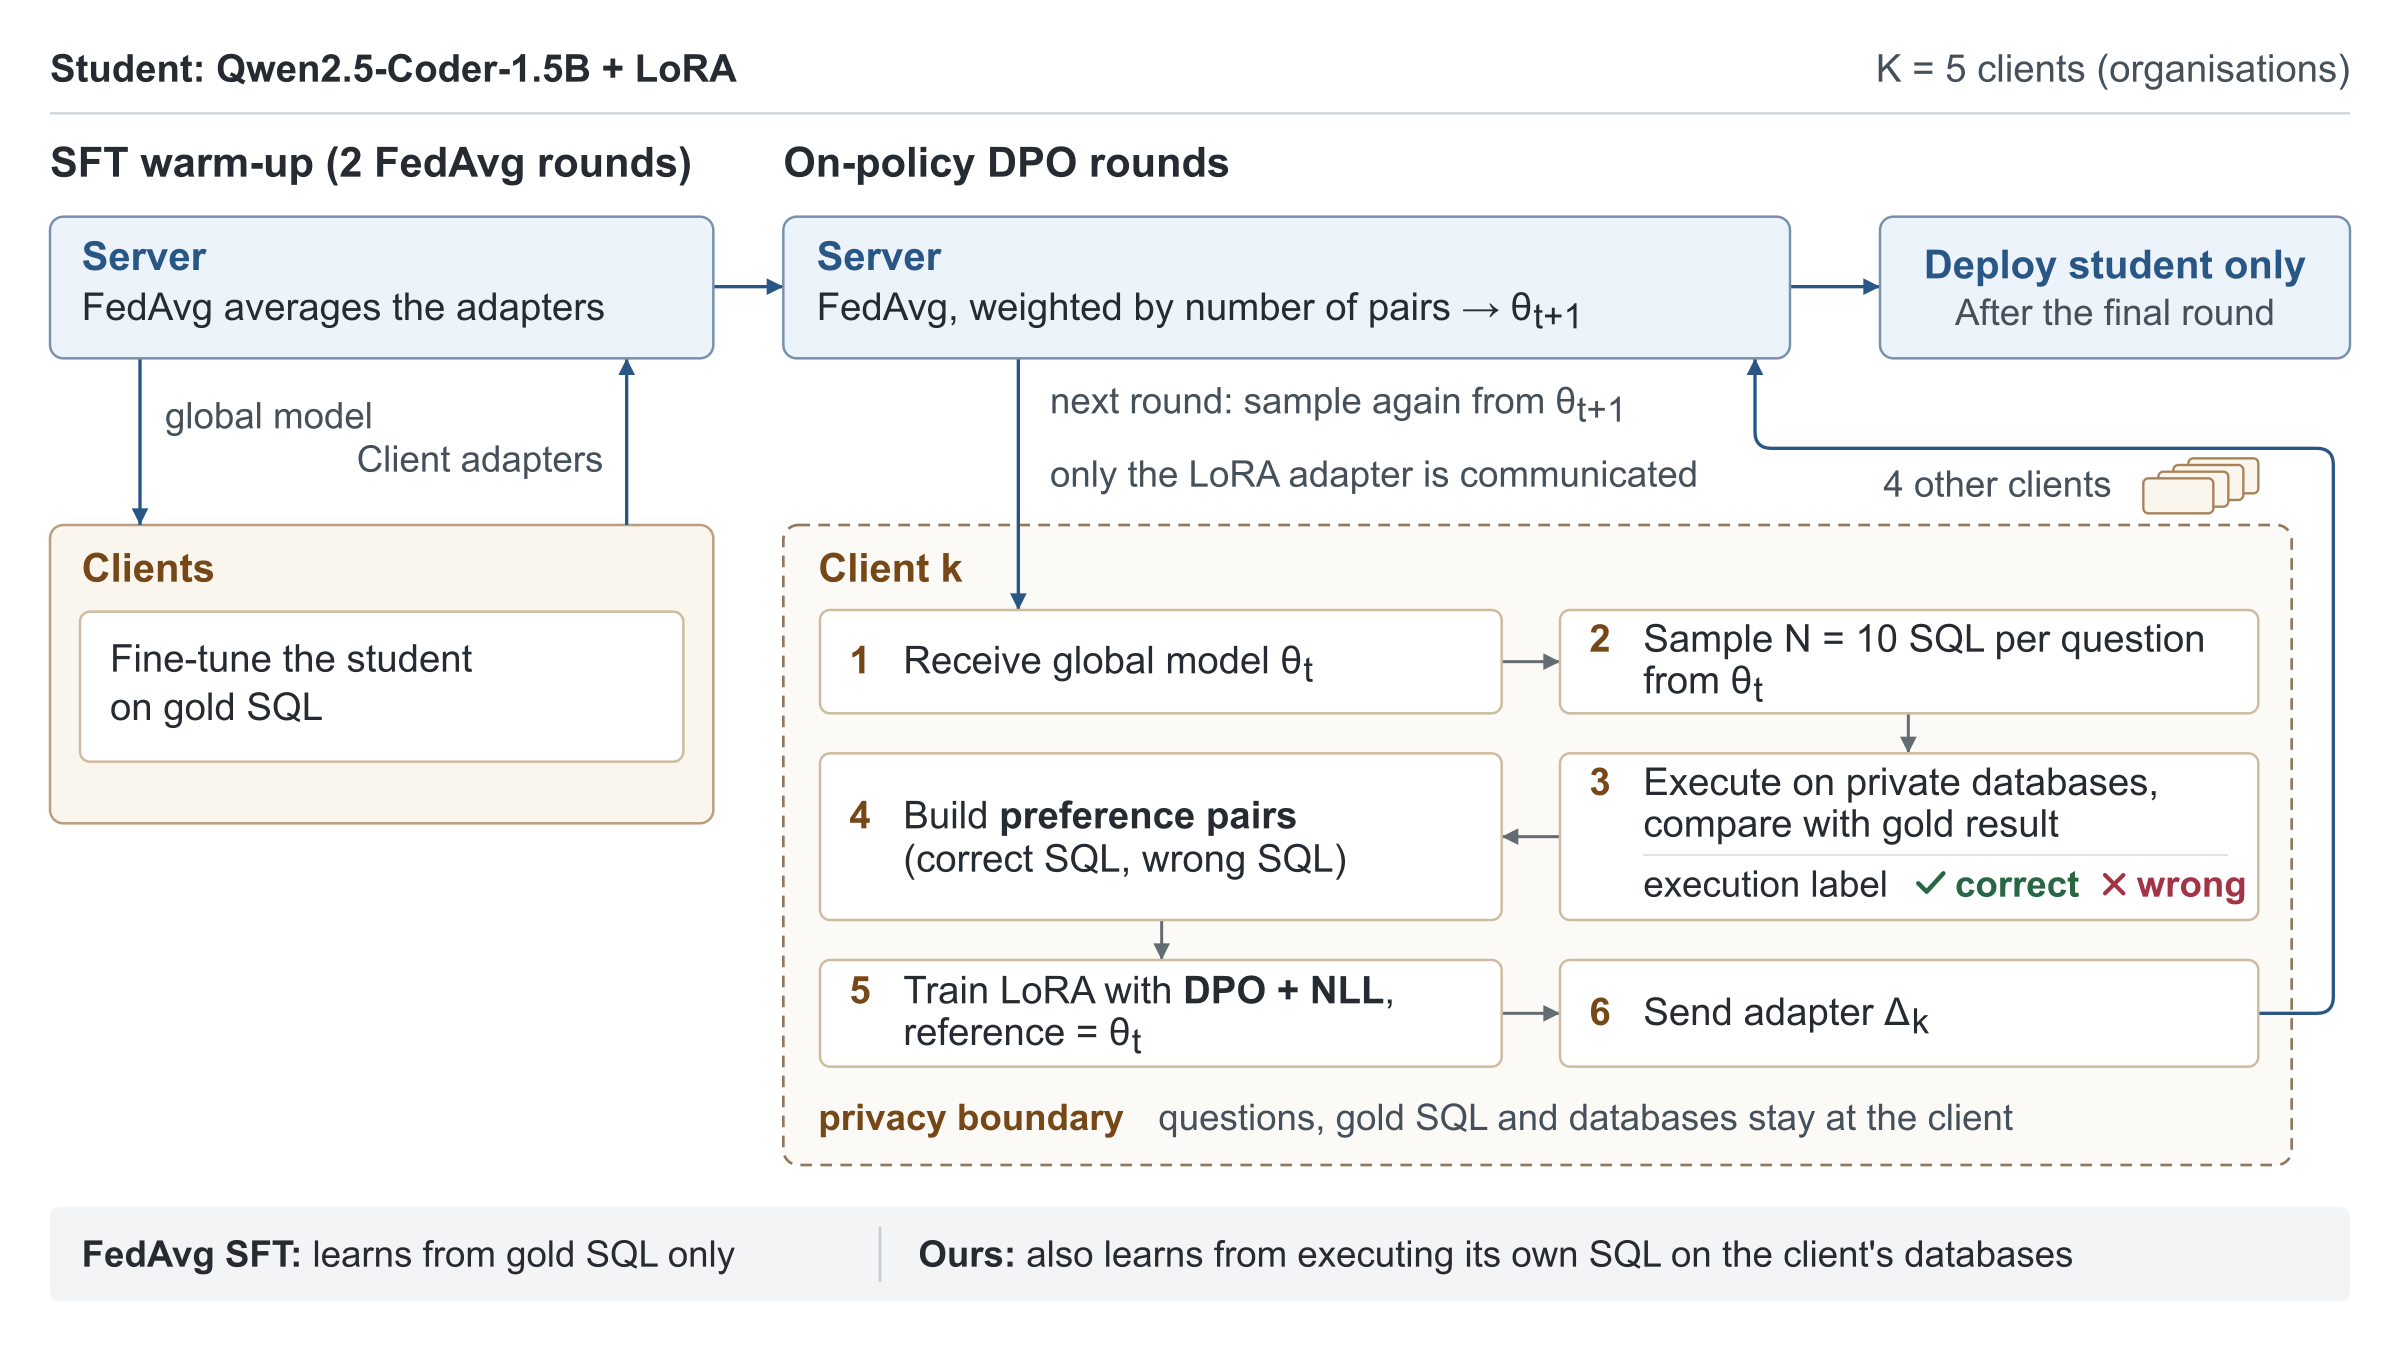
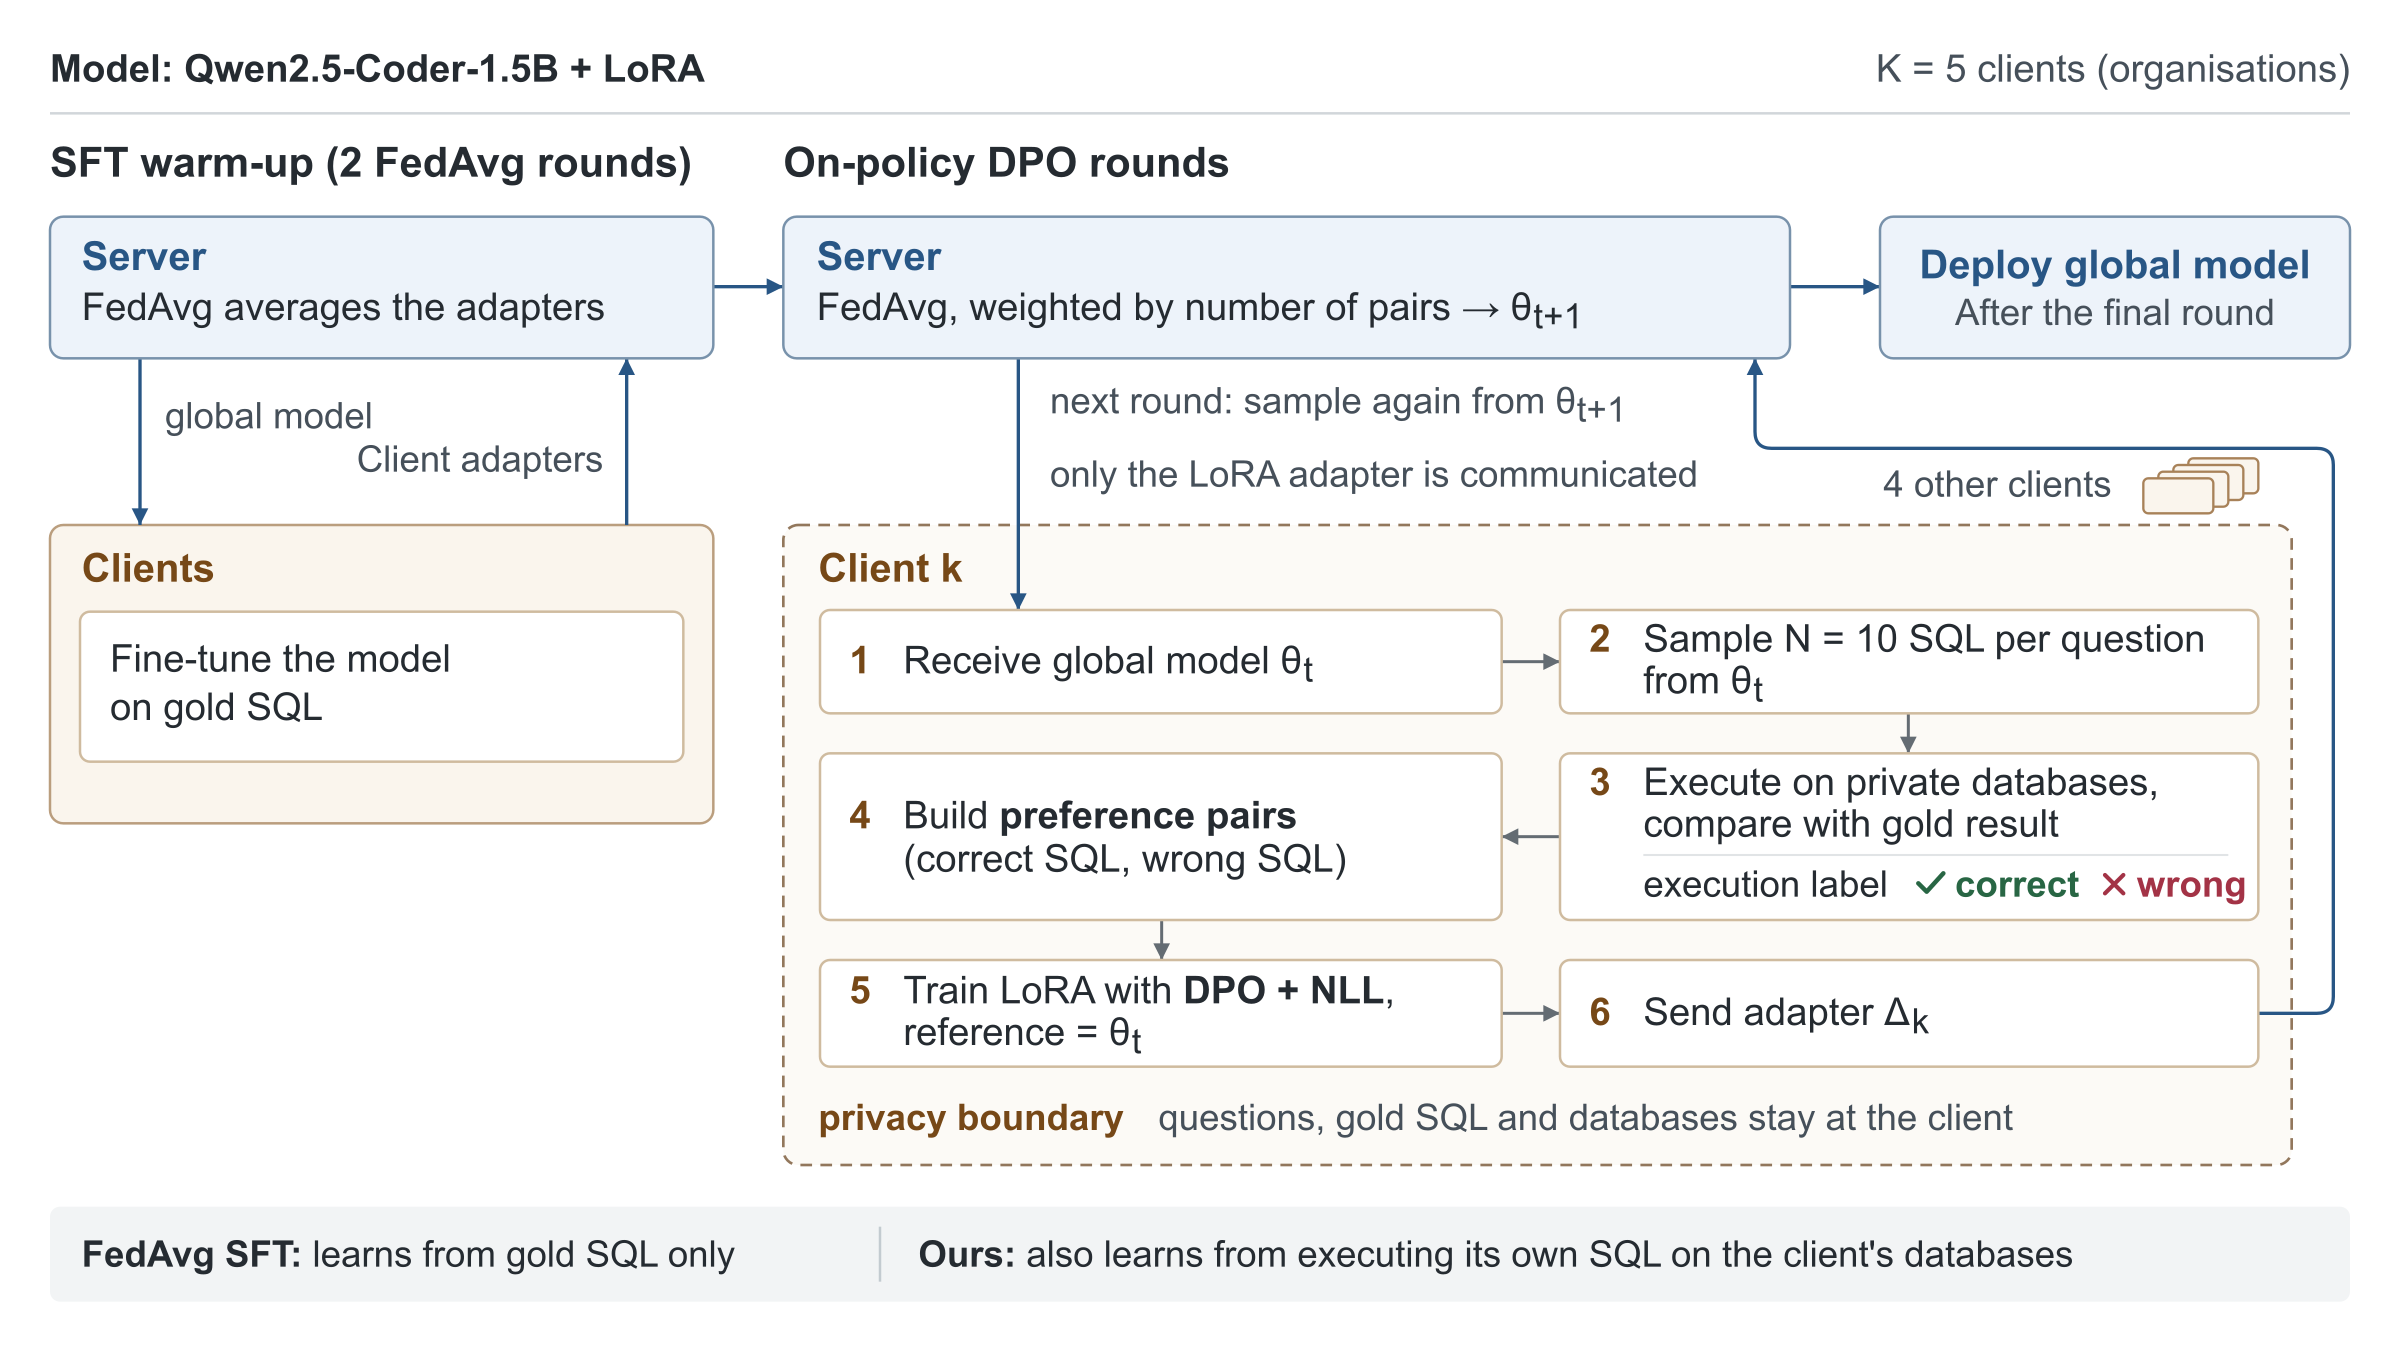
docs: call the trained model the model, not the student, in the email and figure

Changed region(s): [[0.0, 0.0311, 0.3125, 0.0622], [0.7812, 0.1867, 0.9688, 0.2178], [0.125, 0.4667, 0.1875, 0.4978]]

diff --git a/paper/drafts/email_advisor_2026-11-25.md b/paper/drafts/email_advisor_2026-11-25.md
@@ -29,7 +29,7 @@ stage trên Spider test (pooled 2 seed):
 Em để KD làm future work.
 
 **Kết quả.** Em so method với hai baseline, trên hai dataset và qua các
-student model: FedAvg SFT là federated baseline ở cùng số round,
+model: FedAvg SFT là federated baseline ở cùng số round,
 centralized SFT là reference không federated (train trên data của mọi
 client). Metric: execution accuracy (EX); 5 client non-IID; 4 round.
 
@@ -56,7 +56,7 @@ Spider test:
   execution error giảm từ 268 xuống 128.
 
 **Kế hoạch thực nghiệm của bài.** Setup chung: 5 client non-IID
-(Dirichlet alpha 0.1), student fine-tune bằng LoRA, EX trên BIRD dev và
+(Dirichlet alpha 0.1), model fine-tune bằng LoRA, EX trên BIRD dev và
 Spider test, một seed, McNemar test. BIRD là dataset chính, Spider cho
 phần mở rộng.
 
@@ -83,7 +83,7 @@ Ablation:
 
 Thực nghiệm mở rộng, trên Spider:
 
-- Student model khác: Qwen2.5-Coder-0.5B (xong), DeepSeek-Coder-1.3B (chờ
+- Model khác: Qwen2.5-Coder-0.5B (xong), DeepSeek-Coder-1.3B (chờ
   round 3 và 4)
 - Data heterogeneity: Dirichlet alpha 0.1 (xong), IID (chờ chạy)
 - Pooled DPO: các round DPO trên data gộp, không aggregation, so với

diff --git a/AGENTS.md b/AGENTS.md
@@ -186,6 +186,10 @@ deviate.
   full command and what to send back), `Running and queued` (one table in
   queue order), `Reference`. No history in it; finished steps leave once
   they are logged; estimates are marked as estimates.
+- The paper, its figures and anything sent out call the trained model
+  "the model" (or by its name), not "the student" (owner, 2026-11-25):
+  the method has no teacher. The notes and the code keep "student" as
+  an internal name.
 - Reports for the advisor: tables carry the numbers and the text says what
   they mean in plain words; the best value of each column is highlighted;
   lab-process detail stays out.
